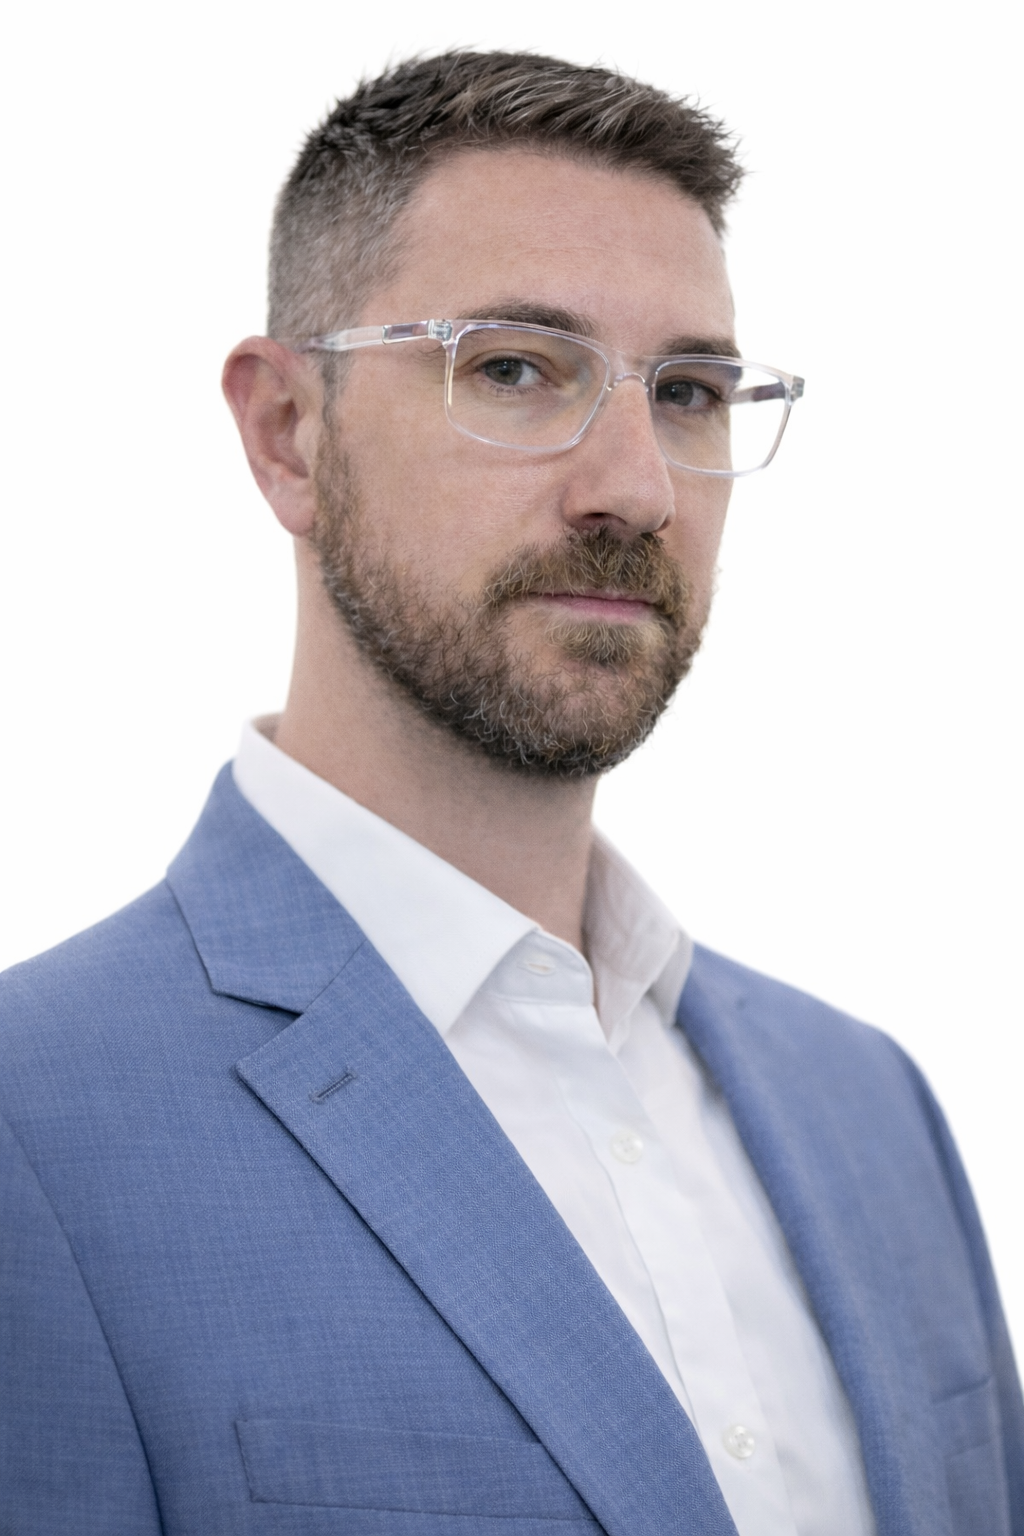
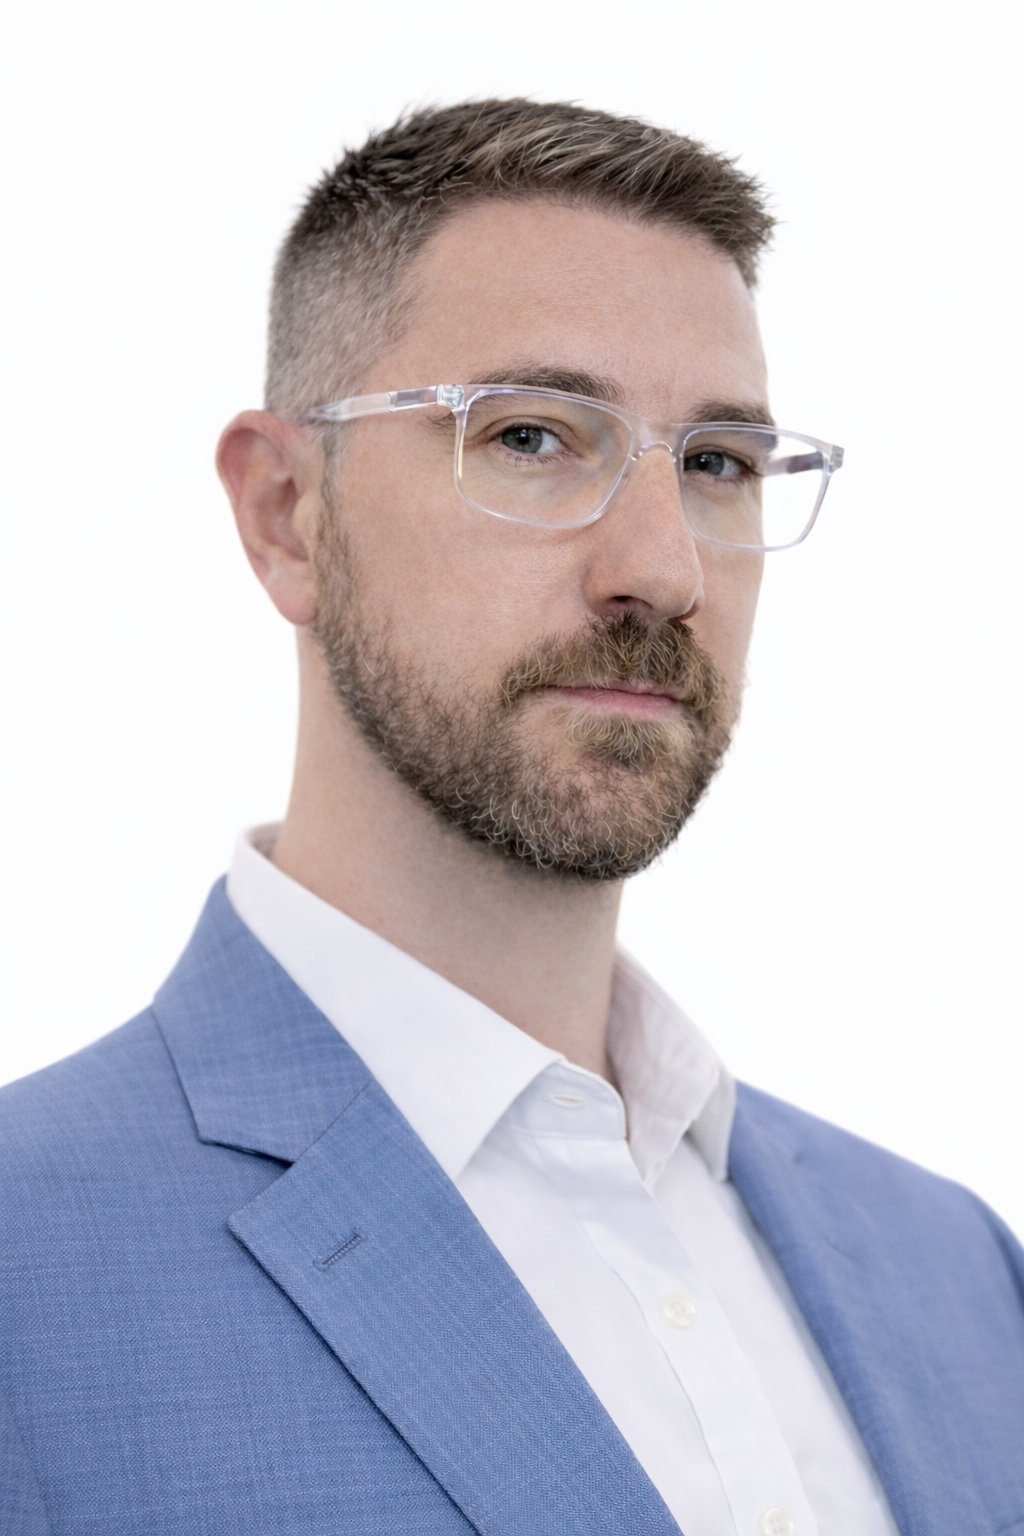
update pics

diff --git a/src/App.tsx b/src/App.tsx
@@ -13,7 +13,7 @@ import {
 import MainLogo from "./assets/main-logo.png";
 import TopLogo from "./assets/white-logo.png";
 import KrisC from "./assets/kriscammarata.png";
-import DanK from "./assets/dankent.png";
+import DanK from "./assets/dankent2.png";
 import React from "react";
 import FullCalendar from "@fullcalendar/react";
 import dayGridPlugin from "@fullcalendar/daygrid";
@@ -44,7 +44,7 @@ const style = {
   top: "50%",
   left: "50%",
   transform: "translate(-50%, -50%)",
-  width: "80vw",
+  width: "90vw",
   height: "80vh", // 👈 critical
   display: "flex",
   flexDirection: "column",
